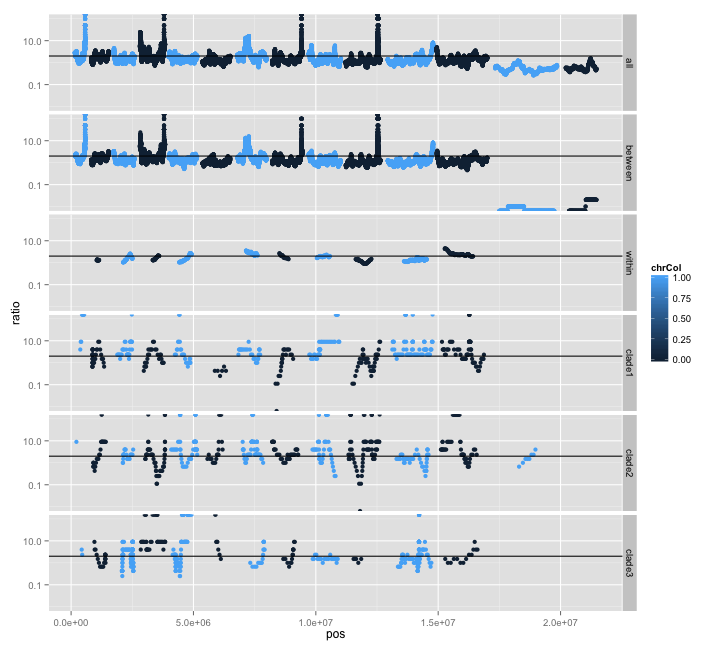
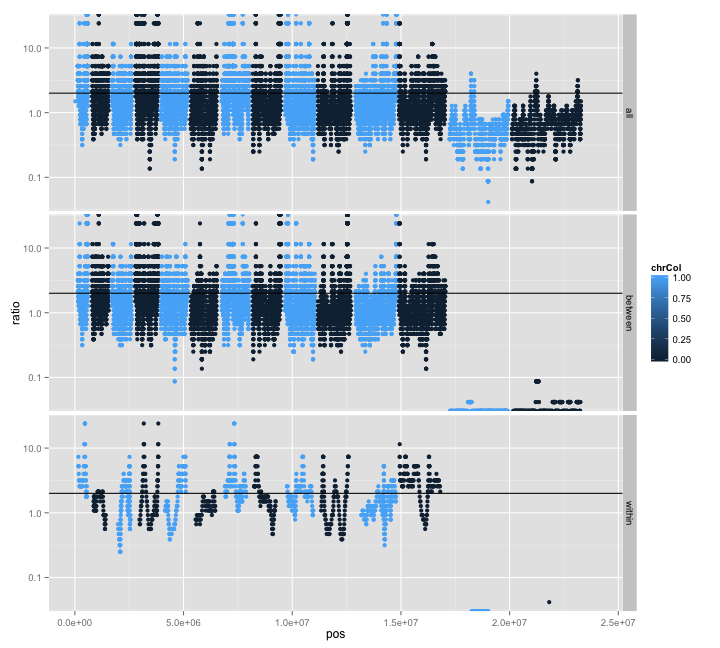
adding report for SNP:INDEL ratios

diff --git a/reports/151120_thies_ratiosDiversity/thies_ratiosDiversity.md b/reports/151120_thies_ratiosDiversity/thies_ratiosDiversity.md
@@ -69,7 +69,7 @@ chrLens <- read.table("chrLens.txt",sep="\t",row.names=1,col.names=c("name","pos
 
 
 ```r
-window=100
+window=25
 
 allalleles <- read.table("Thies_all_manual.PASS.Cls.miss0.5.LMRG.HAP.alleles.tab.txt",sep="\t",header=T)
 allalleles$cumpos <- allalleles$pos + chrLens[as.character(allalleles$chr),"increment"]
@@ -82,14 +82,7 @@ allratios <- data.frame("pos"=rollapply(allalleles$cumpos,FUN=mean,width=window)
   "chrCol"=rollapply(allalleles$chr,FUN=function(x) {as.numeric(x[1]) %% 2},width=window),
   "dataset"="all"
 )
-```
 
-```
-## Warning in rollmean.zoo(data, width, fill = fill, align = align): integer
-## overflow in 'cumsum'; use 'cumsum(as.numeric(.))'
-```
-
-```r
 betweenalleles <- read.table("Thies_all_manual.PASS.Cls.miss0.5.LMRG.HAP.MKSNGL.alleles.tab.txt",sep="\t",header=T)
 betweenalleles$cumpos <- betweenalleles$pos + chrLens[as.character(betweenalleles$chr),"increment"]
 
@@ -100,14 +93,7 @@ betweenratios <- data.frame("pos"=rollapply(betweenalleles$cumpos,FUN=mean,width
   "chrCol"=rollapply(betweenalleles$chr,FUN=function(x) {as.numeric(x[1]) %% 2},width=window),
   "dataset"="between"
 )
-```
 
-```
-## Warning in rollmean.zoo(data, width, fill = fill, align = align): integer
-## overflow in 'cumsum'; use 'cumsum(as.numeric(.))'
-```
-
-```r
 withinalleles <- read.table("Thies_all_manual.PASS.Cls.miss0.5.LMRG.HAP.MKSNGL.DISCORD.alleles.tab.txt",sep="\t",header=T)
 withinalleles$cumpos <- withinalleles$pos + chrLens[as.character(withinalleles$chr),"increment"]
 
@@ -156,56 +142,23 @@ clade3ratios <- data.frame("pos"=rollapply(clade3alleles$cumpos,FUN=mean,width=w
 )
 ```
 
+#between and within clades
 
 ```r
-ratios <-rbind(allratios,betweenratios,withinratios,clade1ratios,clade2ratios,clade3ratios)
-
+ratios <-rbind(allratios,betweenratios,withinratios)
 ratios <- subset(ratios,chrNo==1)
-ggplot(ratios,aes(x=pos,y=ratio,colour=chrCol)) + geom_point() + geom_hline(aes(yintercept=2)) + scale_y_log10() + facet_grid(dataset ~ .)
-```
-
-```
-## Warning: Removed 709 rows containing missing values (geom_point).
-```
-
-```
-## Warning: Removed 290 rows containing missing values (geom_point).
+ggplot(ratios,aes(x=pos,y=ratio,colour=chrCol)) + geom_point() + geom_hline(aes(yintercept=2)) + scale_y_log10() + facet_grid(dataset ~ .) + xlim(0,24e6)
 ```
 
 ![plot of chunk unnamed-chunk-5](figure/unnamed-chunk-5-1.png) 
 
-```r
-clade1ratios <- subset(clade1ratios,chrNo==1)
-clade2ratios <- subset(clade2ratios,chrNo==1)
-clade3ratios <- subset(clade3ratios,chrNo==1)
-
-
-
-ggplot(allratios,aes(x=pos,y=ratio,colour=chrCol)) + geom_point() + scale_y_log10()
-```
-
-```
-## Warning: Removed 709 rows containing missing values (geom_point).
-```
-
-![plot of chunk unnamed-chunk-5](figure/unnamed-chunk-5-2.png) 
+#within clades only
 
 ```r
-ggplot(clade1ratios,aes(x=pos,y=ratio,colour=chrCol)) + geom_point() + scale_y_log10()
+ratios <-rbind(clade1ratios,clade2ratios,clade3ratios)
+ratios <- subset(ratios,chrNo==1)
+ggplot(ratios,aes(x=pos,y=ratio,colour=chrCol)) + geom_point() + geom_hline(aes(yintercept=2)) + scale_y_log10() + facet_grid(dataset ~ .) + xlim(0,24e6)
 ```
 
-![plot of chunk unnamed-chunk-5](figure/unnamed-chunk-5-3.png) 
-
-```r
-ggplot(clade2ratios,aes(x=pos,y=ratio,colour=chrCol)) + geom_point() + scale_y_log10()
-```
-
-![plot of chunk unnamed-chunk-5](figure/unnamed-chunk-5-4.png) 
-
-```r
-ggplot(clade3ratios,aes(x=pos,y=ratio,colour=chrCol)) + geom_point() + scale_y_log10()
-```
-
-![plot of chunk unnamed-chunk-5](figure/unnamed-chunk-5-5.png) 
-
+![plot of chunk unnamed-chunk-6](figure/unnamed-chunk-6-1.png) 
 
